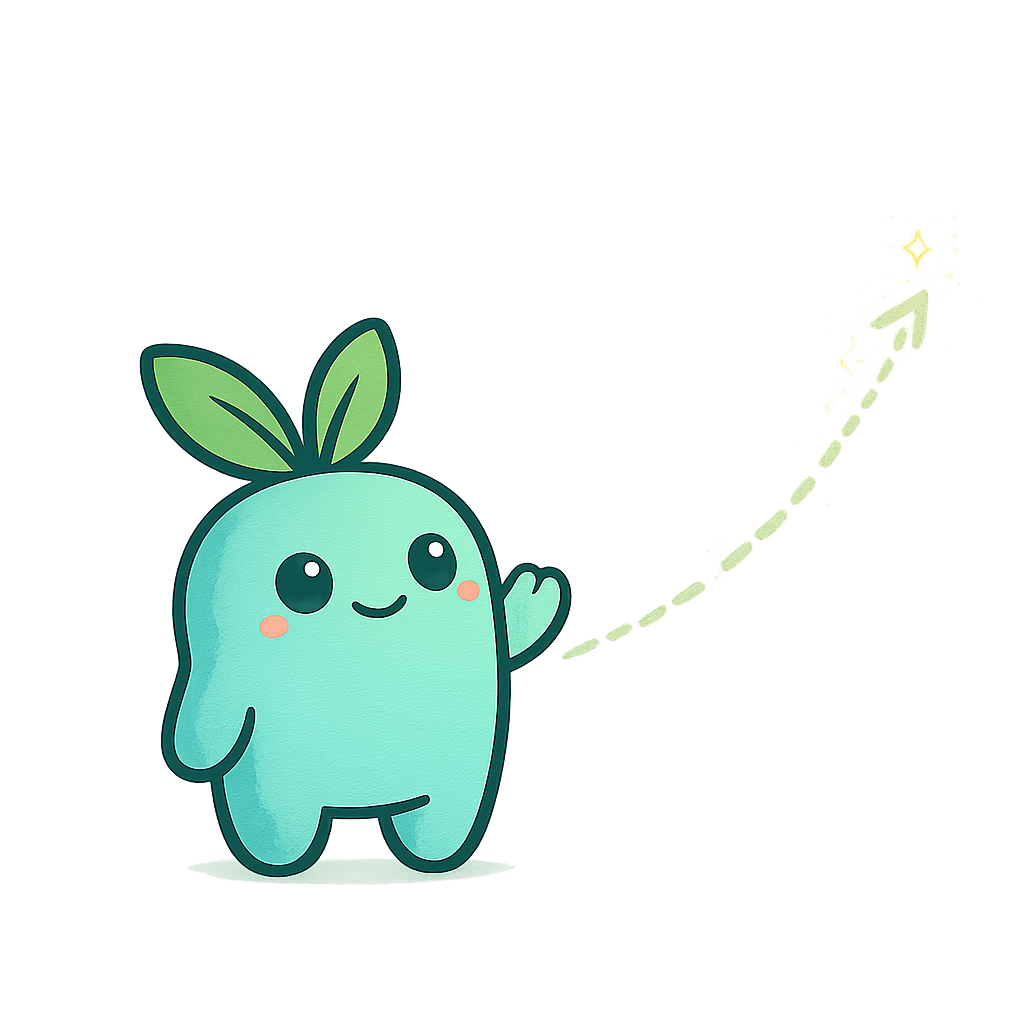
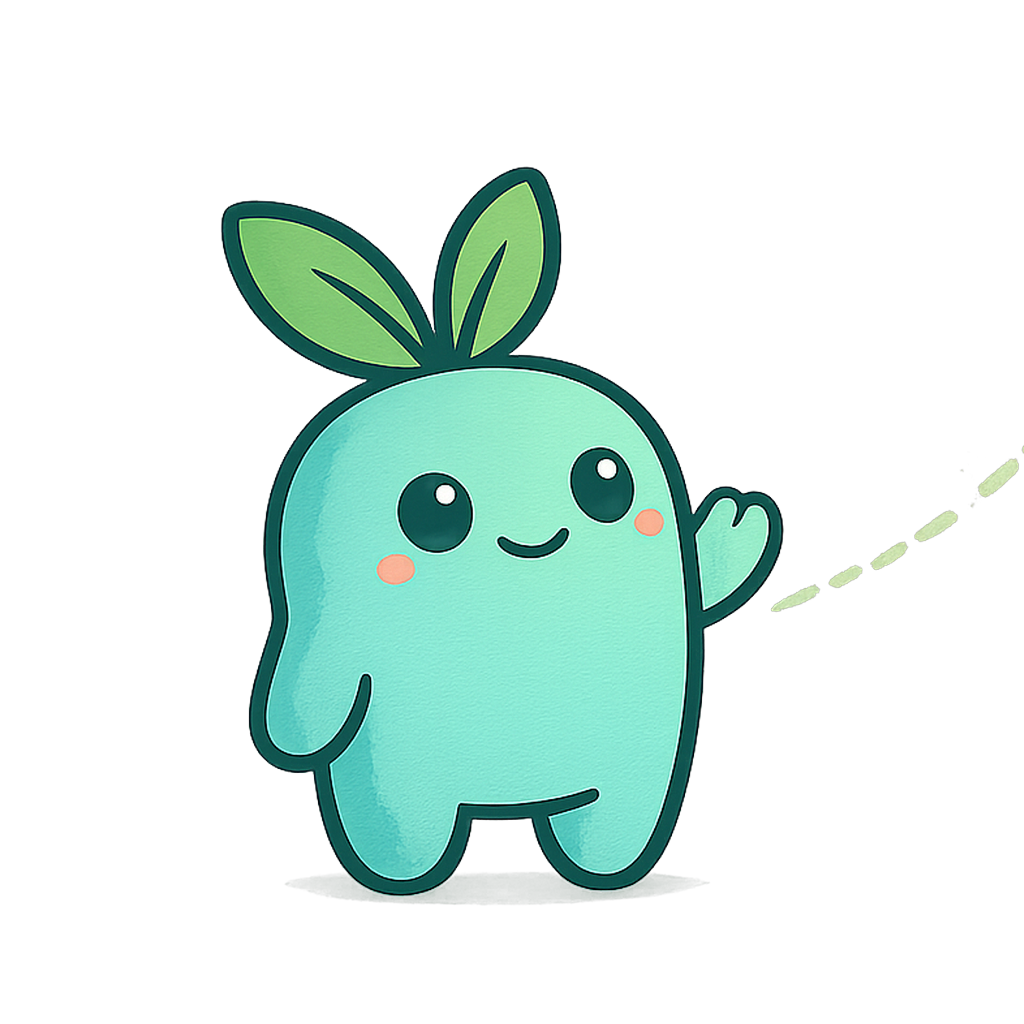
Scale up hero trio; rescale step 5 sprig to match other flywheel steps
- Hero: bump trio one Tailwind step at every breakpoint (192→224, 256→288, 320→384, 384→448px)
- Flywheel step 5: rescale the sprig 1.30× and recenter so its visual weight matches steps 1–4 (the arrow was inflating the bbox and making the sprig look small at icon sizes)

diff --git a/src/components/sections/HeroSection.tsx b/src/components/sections/HeroSection.tsx
@@ -70,7 +70,7 @@ const HeroSection = () => {
                 alt="Sprig with peers — your AI learning companions"
                 width="400"
                 height="400"
-                className="w-48 h-48 sm:w-64 sm:h-64 lg:w-80 lg:h-80 xl:w-96 xl:h-96 drop-shadow-2xl animate-breathe motion-reduce:animate-none"
+                className="w-56 h-56 sm:w-72 sm:h-72 lg:w-96 lg:h-96 xl:w-[28rem] xl:h-[28rem] drop-shadow-2xl animate-breathe motion-reduce:animate-none"
               />
             </SprigOrb>
           </div>